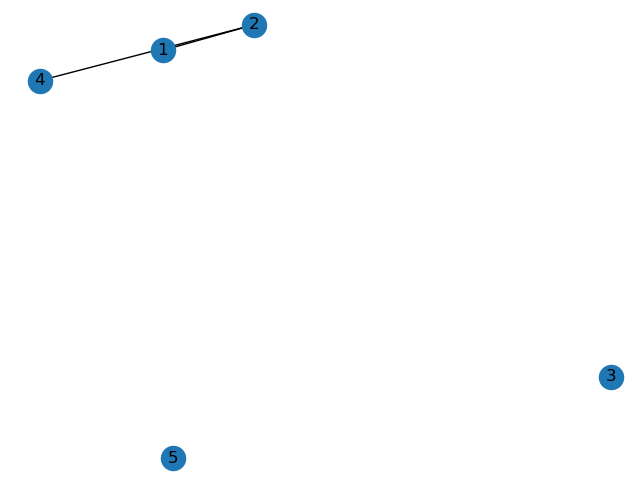
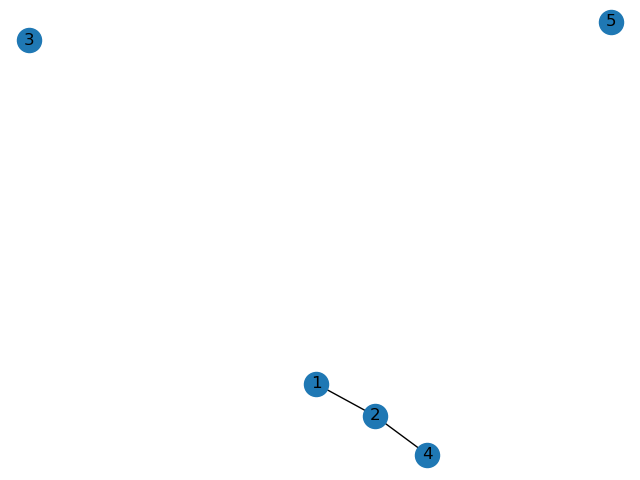
utils

diff --git a/utils.py b/utils.py
@@ -1,17 +1,22 @@
 # https://towardsdatascience.com/basics-of-gifs-with-pythons-matplotlib-54dd544b6f30
 # https://networkx.org/documentation/stable/reference/classes/graph.html
 
-import networkx as nx
+
 import matplotlib.pyplot as plt
 import imageio.v2 as imageio # gifs
+import networkx as nx
 
 # to-do add reading from file
 # add algorithms, which would color nodes
 # delete or replace img after changing color; maybe a function
 
 # dodac zmiane nazwy 
-
-
+def define_graph(blue_nodes, oragne_nodes, edges):
+    # undirected graph
+    G = nx.Graph()
+    G.add_nodes_from(blue_nodes+oragne_nodes)
+    G.add_edges_from(edges)
+    return G
 
 def draw_graph(G : nx.Graph(), blue_nodes, oragne_nodes, yellow_edges, red_edges):
     pos = nx.spring_layout(G, seed=100)  # positions for all nodes - seed for reproducibility
@@ -22,7 +27,6 @@ def draw_graph(G : nx.Graph(), blue_nodes, oragne_nodes, yellow_edges, red_edges
     # edges
     nx.draw_networkx_edges(G, pos, edgelist=G.edges(data=True), width=4)
     nx.draw_networkx_edges(G, pos, edgelist=yellow_edges, edge_color="yellow", width=4)
-    nx.draw_networkx_edges(G, pos, edgelist=red_edges, edge_color="red", width=4)
 
     nx.draw_networkx_labels(G, pos, font_size=20, font_color="whitesmoke", font_family="sans-serif")
     # edge weight labels

diff --git a/main.py b/main.py
@@ -1,0 +1,28 @@
+from utils import draw_graph, define_graph
+from dijkstra import dijkstra
+
+nodes = [1, 2, 3, 4, 5, 6, 7, 8, 9]
+root_id = 1
+blue_nodes = nodes.remove(root_id)
+oragne_nodes = root_id
+yellow_edges = [(1,2)]
+red_edges = [(1,3)]
+
+edges = [(1, 2), (1,3), (1,4), (2, 5), (3, 5), (5, 7), (3, 7), (4, 6), (3,6), (3, 2), (7,8), (7,9), (5,9), (8,9)]
+
+G = define_graph(
+    nodes = nodes, edges=edges
+    )
+draw_graph(
+    G,
+    blue_nodes = blue_nodes,
+    oragne_nodes= oragne_nodes,
+    yellow_edges=yellow_edges,
+    red_edges=red_edges
+)
+
+
+dijkstra(G, 1)
+
+# trzeba przebudowac drow graph bo botrzebujem logiki zniego 
+

diff --git a/dijkstra.py b/dijkstra.py
@@ -1,0 +1,29 @@
+# Dijkstra
+import heapq
+import networkx as nx
+
+
+def dijkstra(G: nx.Graph(), root_id):
+    edges = G.edges
+    blue_nodes = [n for n in G.nodes].remove(root_id)
+    oragne_nodes = root_id
+    yellow_edges = []
+    red_edges = []
+
+    unknow_nodes = [n for n in G.nodes]
+    unknow_nodes.remove(root_id)
+    phase = 1
+
+    while unknow_nodes:
+        # send join
+
+        print(G.neighbors(root_id))
+        print([n for n in G.neighbors(root_id)])
+        print([n for n in G.edges(root_id)])
+        
+        unknow_nodes.pop()
+
+        phase += 1
+
+
+
